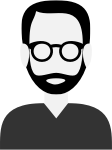
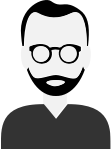
Update Josh profile images, change U.S. -> US

diff --git a/index.md b/index.md
@@ -98,8 +98,8 @@ layout: default
 				<div class="profile--header">
 					<div class="profile--image">
 						<img alt="Portrait Illustration of Josh Levy"
-							src="assets/images/portrait-josh-59w.png"
-							srcset="assets/images/portrait-josh-118w.png 112w"
+							src="assets/images/portrait-josh-56w.png"
+							srcset="assets/images/portrait-josh-112w.png 112w"
 							sizes="(max-width: 800px) 41px, 56px"
 						/>
 					</div>
@@ -110,7 +110,7 @@ layout: default
 					</hgroup>
 				</div>
 
-				<p>Josh is a technologist and longtime digital rights advocate. He oversees the development and implementation of the CDR Link platform and other aspects of CDR’s technical infrastructure. He is founder and director of Digital Security Exchange, the CDR’s U.S. community, and was previously advocacy director at Access Now and campaign director at Free Press, where he helped lead global efforts to protect free expression online, fight for privacy, secure strong open internet rules, and reign in government surveillance.</p>
+				<p>Josh is a technologist and longtime digital rights advocate. He oversees the development and implementation of the CDR Link platform and other aspects of CDR’s technical infrastructure. He is founder and director of Digital Security Exchange, the CDR’s US community, and was previously advocacy director at Access Now and campaign director at Free Press, where he helped lead global efforts to protect free expression online, fight for privacy, secure strong open internet rules, and reign in government surveillance.</p>
 
 				<dl class="profile--details">
 					<dt>Email</dt>
